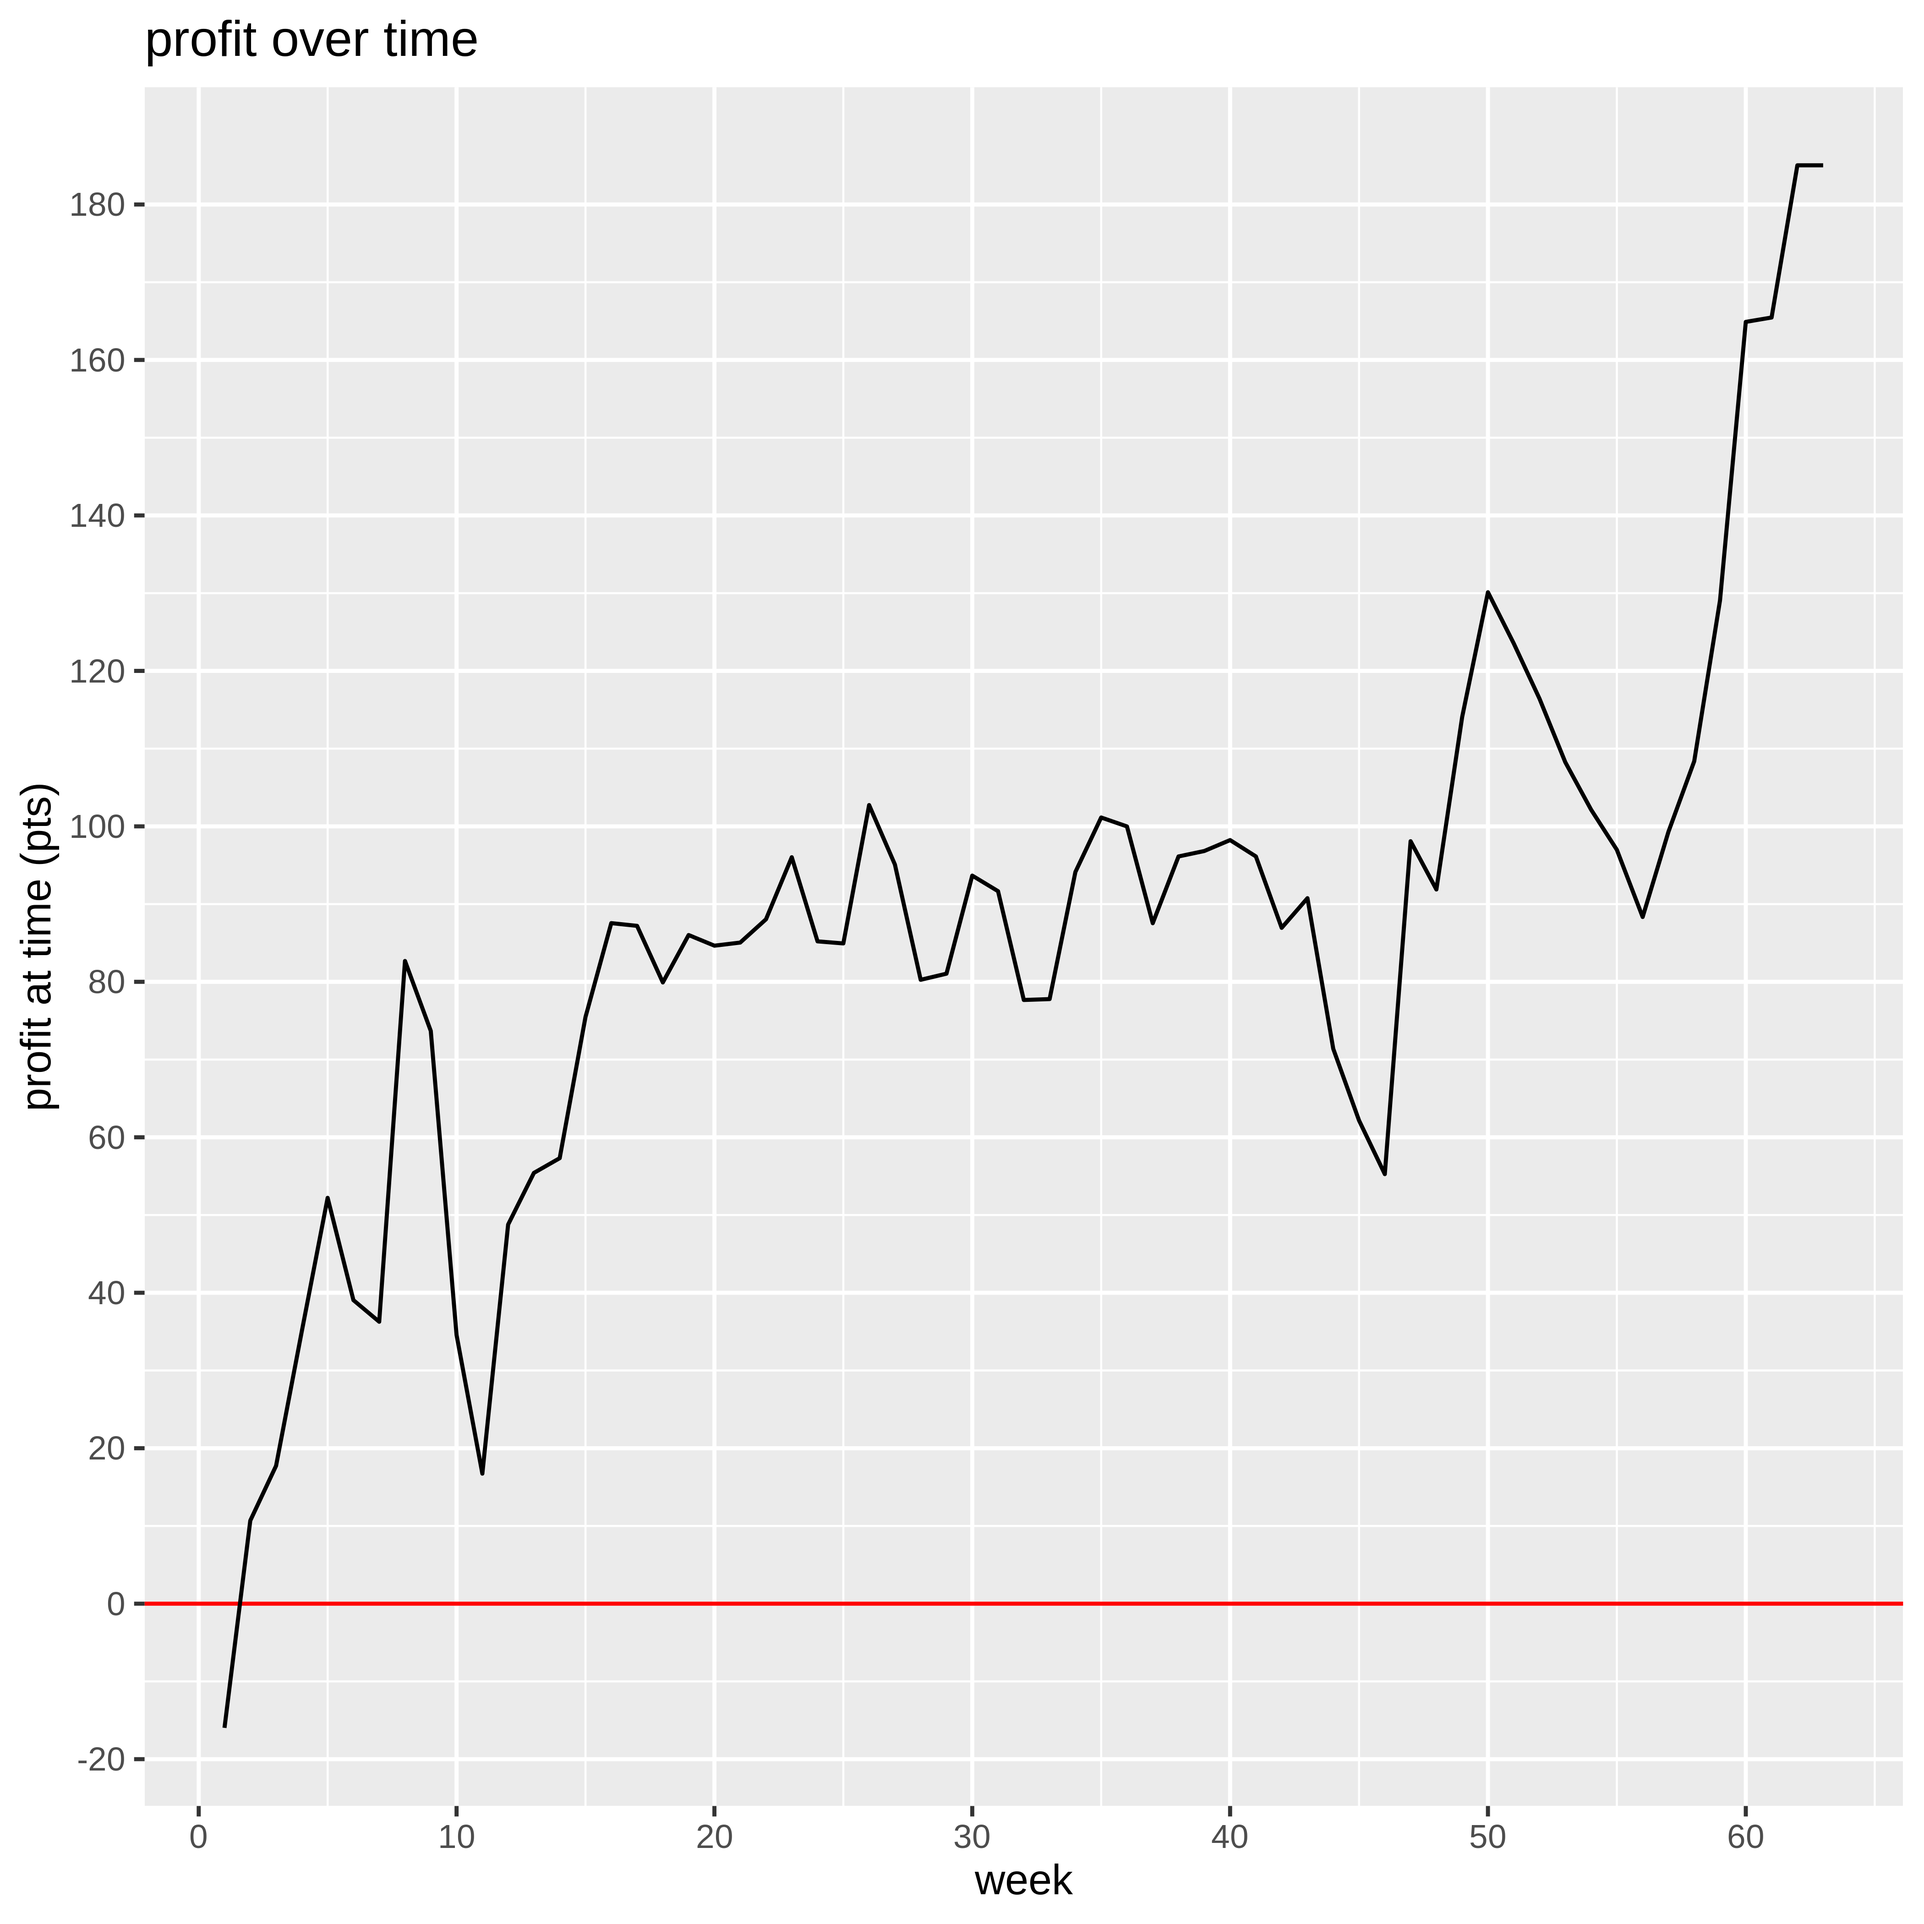
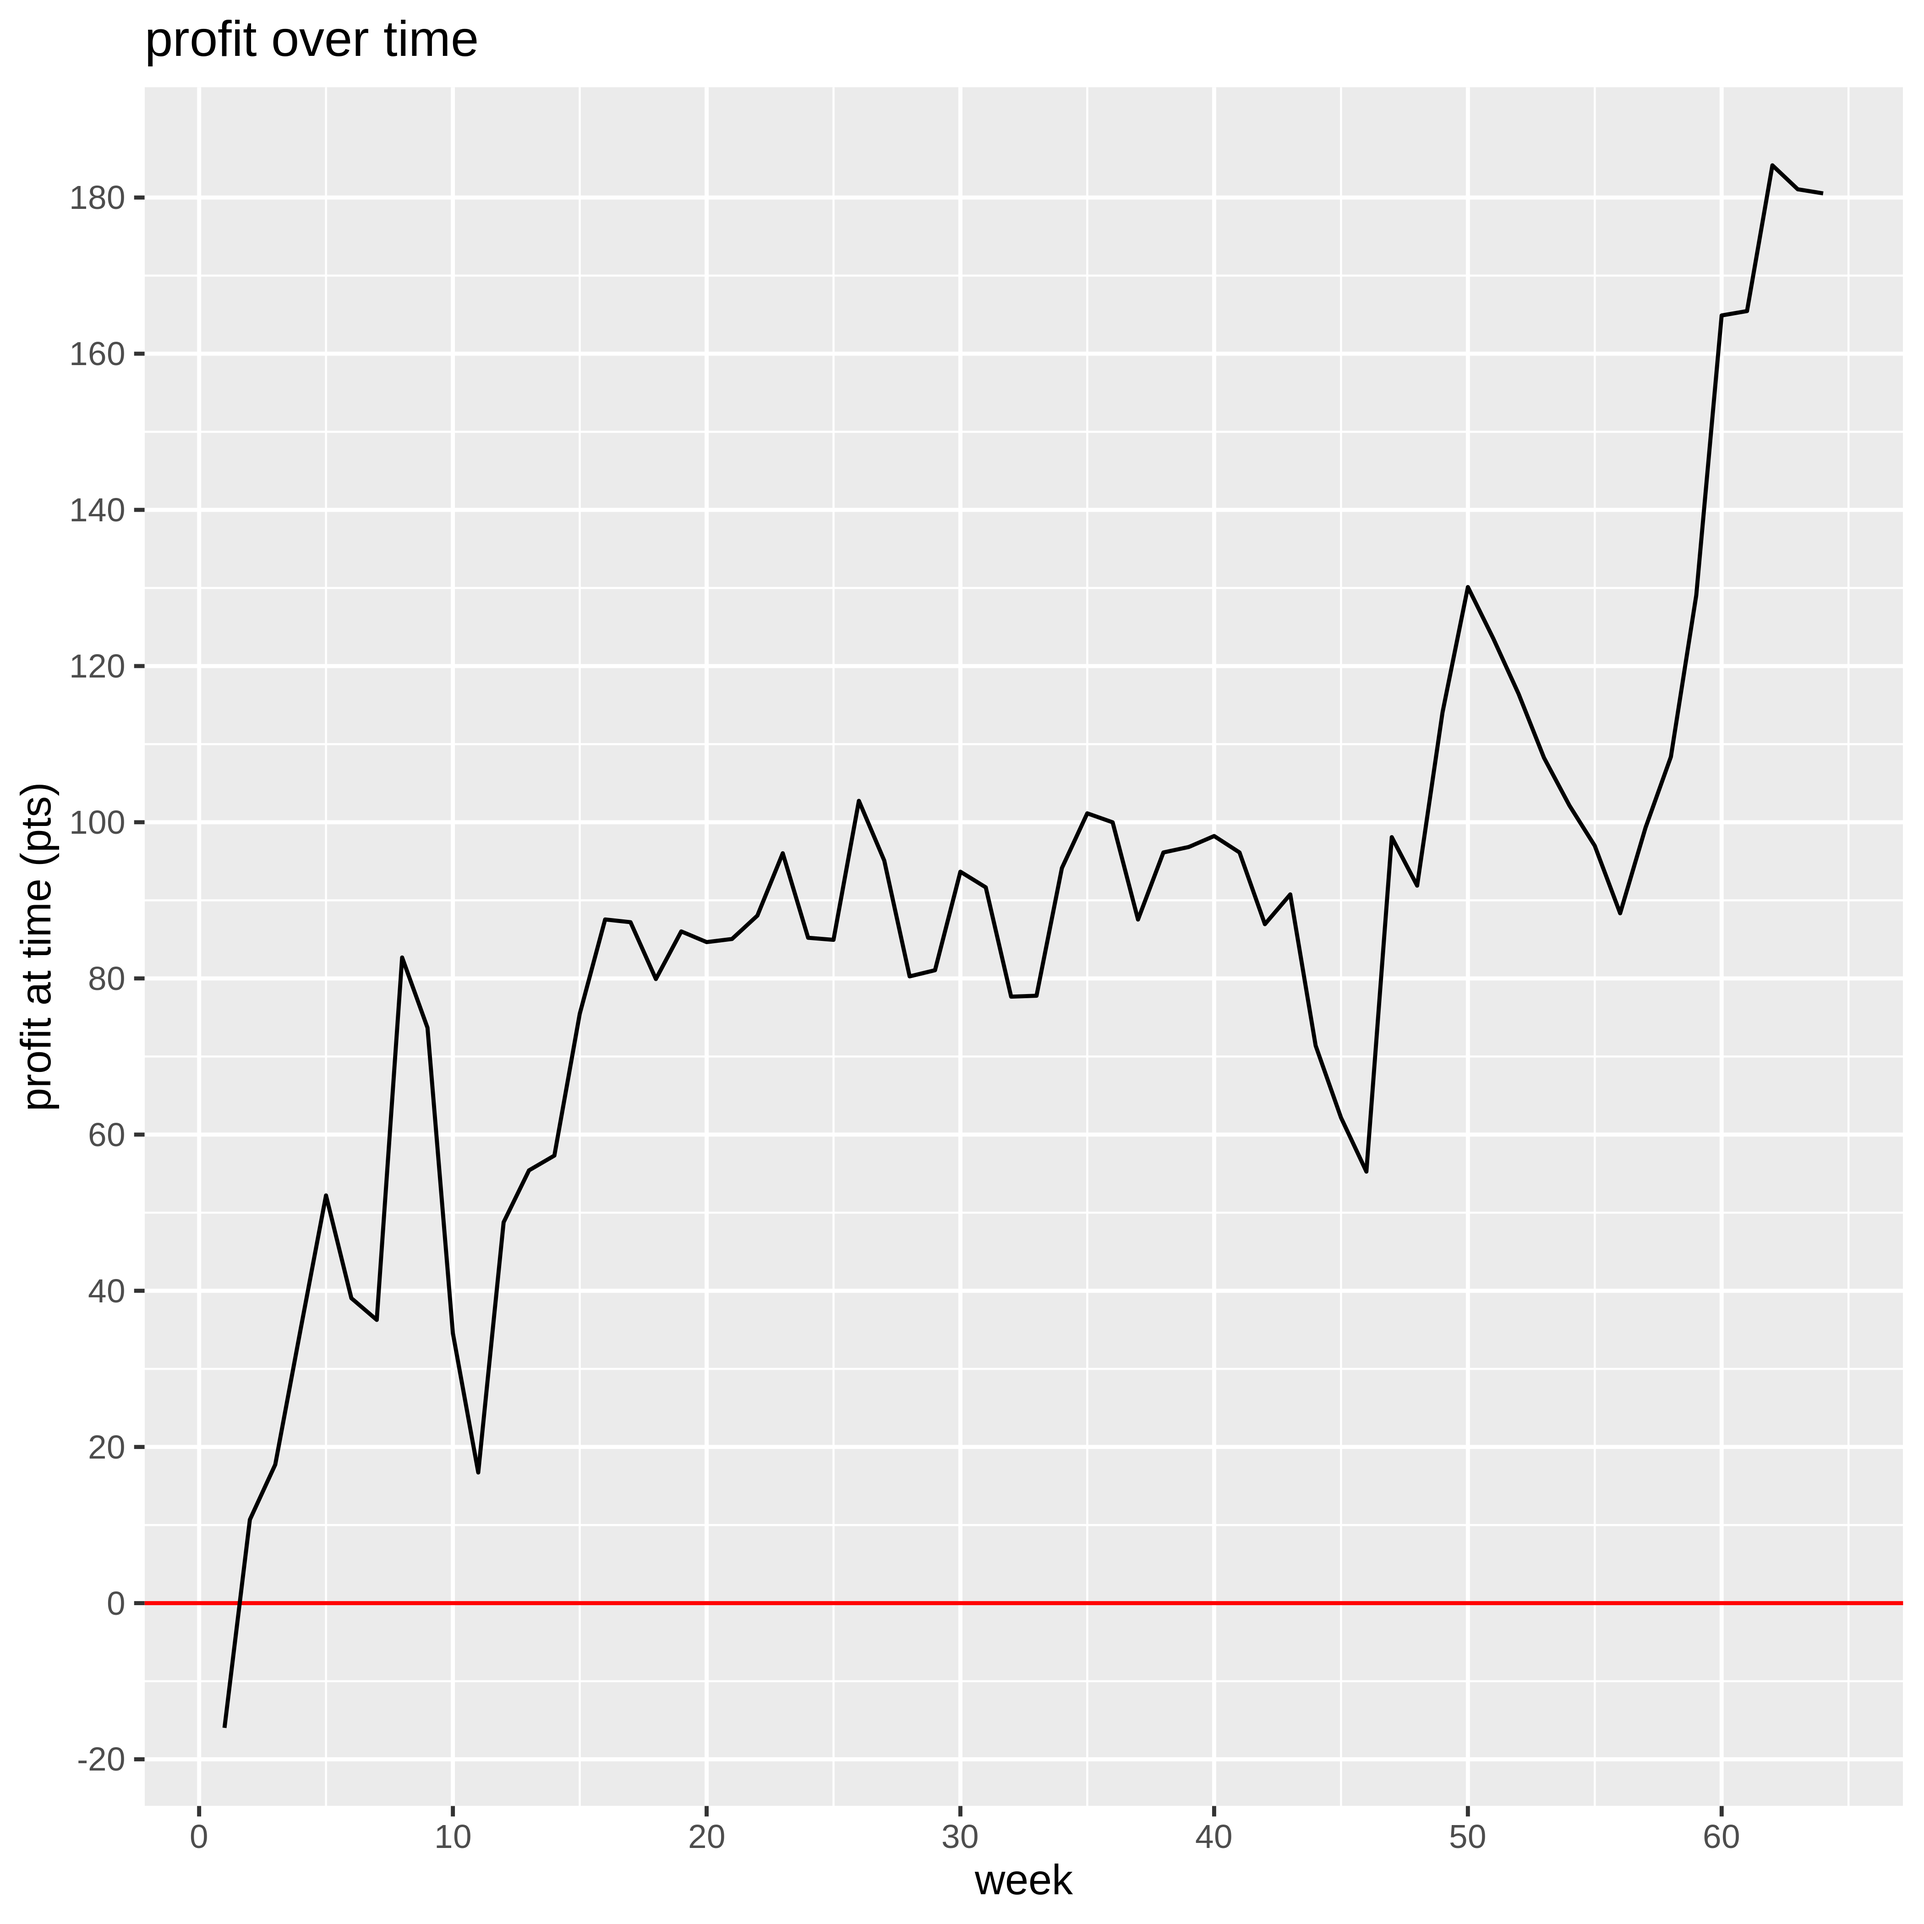
Daily auto build of report.md. Travis build: 1165.

diff --git a/report.md b/report.md
@@ -1,6 +1,6 @@
 ---
 title: "report"
-date: "2019-07-02 18:50:51"
+date: "2019-07-03 17:48:33"
 output: github_document
 ---
 
@@ -17,9 +17,9 @@ output: github_document
 
 
 
-We put in €9000 and we've made a profit of €9,135 on the bets. However, we've paid three subscriptions of £600 which amounts to €2,013 so our net profit is €7,122. That's a return on capital of 79.13%. This gives us a current bank of €16122.
+We put in €9000 and we've made a profit of €8,867 on the bets. However, we've paid three subscriptions of £600 which amounts to €2,012 so our net profit is €6,855. That's a return on capital of 76.17%. This gives us a current bank of €15855.
 
-We have wagered a total of €102,983 and made a betting profit of €9,135, which gives us a betting ROI of 8.87%.
+We have wagered a total of €103,270 and made a betting profit of €8,867, which gives us a betting ROI of 8.59%.
 
 
 # Have any bookies been riddled?
@@ -28,10 +28,10 @@ We have wagered a total of €102,983 and made a betting profit of €9,135, whi
 |bookmaker    |Aidan |David |Rory |total |
 |:------------|:-----|:-----|:----|:-----|
 |Unibet       |+17   |0     |+55  |+72   |
-|Matchbook    |+57   |0     |+6   |+63   |
+|Matchbook    |+56   |0     |+6   |+62   |
 |Betfred      |+20   |0     |+31  |+51   |
 |Paddy Power  |+44   |0     |+1   |+45   |
-|Bet365       |0     |-2    |+36  |+36   |
+|Bet365       |0     |-3    |+36  |+36   |
 |SkyBet       |+19   |0     |-1   |+19   |
 |SportingBet  |0     |0     |+10  |+10   |
 |10Bet        |+14   |0     |-6   |+8    |
@@ -42,11 +42,11 @@ We have wagered a total of €102,983 and made a betting profit of €9,135, whi
 |Betway       |0     |-1    |0    |0     |
 |Betstars     |-1    |0     |0    |-1    |
 |Uniber       |0     |0     |-1   |-1    |
-|William Hill |-1    |0     |0    |-1    |
 |SunBets      |-4    |0     |+3   |-1    |
 |BetBright    |0     |0     |-1   |-1    |
 |Redzone      |0     |0     |-1   |-1    |
 |HC Matchbook |-1    |0     |-1   |-2    |
+|William Hill |-1    |0     |-1   |-2    |
 |SportNation  |0     |0     |-2   |-2    |
 |BetVictor    |0     |0     |-3   |-3    |
 |Various      |-3    |0     |-1   |-4    |
@@ -57,7 +57,7 @@ We have wagered a total of €102,983 and made a betting profit of €9,135, whi
 |SportsPesa   |0     |0     |-6   |-6    |
 |188Bet       |-3    |0     |-4   |-6    |
 |BetStars     |-2    |0     |-9   |-10   |
-|Ladbrokes    |0     |+2    |-18  |-18   |
+|Ladbrokes    |0     |+1    |-18  |-18   |
 |Black Type   |0     |0     |-26  |-26   |
 |Betfair SB   |-24   |0     |-8   |-33   |
 
@@ -66,7 +66,7 @@ We have wagered a total of €102,983 and made a betting profit of €9,135, whi
 
 
 
-We've had winnings of 1544 points and losses of 1360 points, so even if our odds were only a fraction 1360 / 1544 = 0.88 of what we actually got, we'd still be breaking even.
+We've had winnings of 1544 points and losses of 1364 points, so even if our odds were only a fraction 1364 / 1544 = 0.88 of what we actually got, we'd still be breaking even.
 
 
 # Winners and losers
@@ -76,7 +76,7 @@ Here's a count of the number of winners, losers, and places we've had.
 
 |result                  |    n|percent |
 |:-----------------------|----:|:-------|
-|Win only Lose           | 1025|70%     |
+|Win only Lose           | 1032|70%     |
 |Win only Win            |  208|14%     |
 |Each way Lose           |  108|7%      |
 |Win only Unmatched Loss |   48|3%      |
@@ -90,8 +90,8 @@ Here's a count of the number of winners, losers, and places we've had.
 
 
 
-* We've made 745 _win only_ bets, on which we've made a profit of €8,726. 
-* We've made 103 _each way_ bets, on which we've made a profit of €409.
+* We've made 749 _win only_ bets, on which we've made a profit of €8,457. 
+* We've made 103 _each way_ bets, on which we've made a profit of €410.
 
 
 # Unmatched Bets
@@ -100,4 +100,4 @@ Here's a count of the number of winners, losers, and places we've had.
 
 We'll consider only win only bets (and not each way bets) in this section.
 
-Of the bets that have been matched, there have been 139 winners and 597 losers. That means that 19% of matched bets have been winners. Of the bets that have not been matched, there have been 13 winners and 48 losers. That means that 21% of unmatched bets have been winners. Unmatched bets have saved us 48 points on losers but cost us 81 on winners, whereas getting better odds on posted bets which were matched has made us 61 points (where I have assumed that when we post, we get 20% better odds than if we'd just taken best available at the time). So overall, choosing to post when we do (rather than taking the bad bbest available odds) has saved us 28 points.
+Of the bets that have been matched, there have been 139 winners and 601 losers. That means that 19% of matched bets have been winners. Of the bets that have not been matched, there have been 13 winners and 48 losers. That means that 21% of unmatched bets have been winners. Unmatched bets have saved us 48 points on losers but cost us 81 on winners, whereas getting better odds on posted bets which were matched has made us 61 points (where I have assumed that when we post, we get 20% better odds than if we'd just taken best available at the time). So overall, choosing to post when we do (rather than taking the bad bbest available odds) has saved us 28 points.
